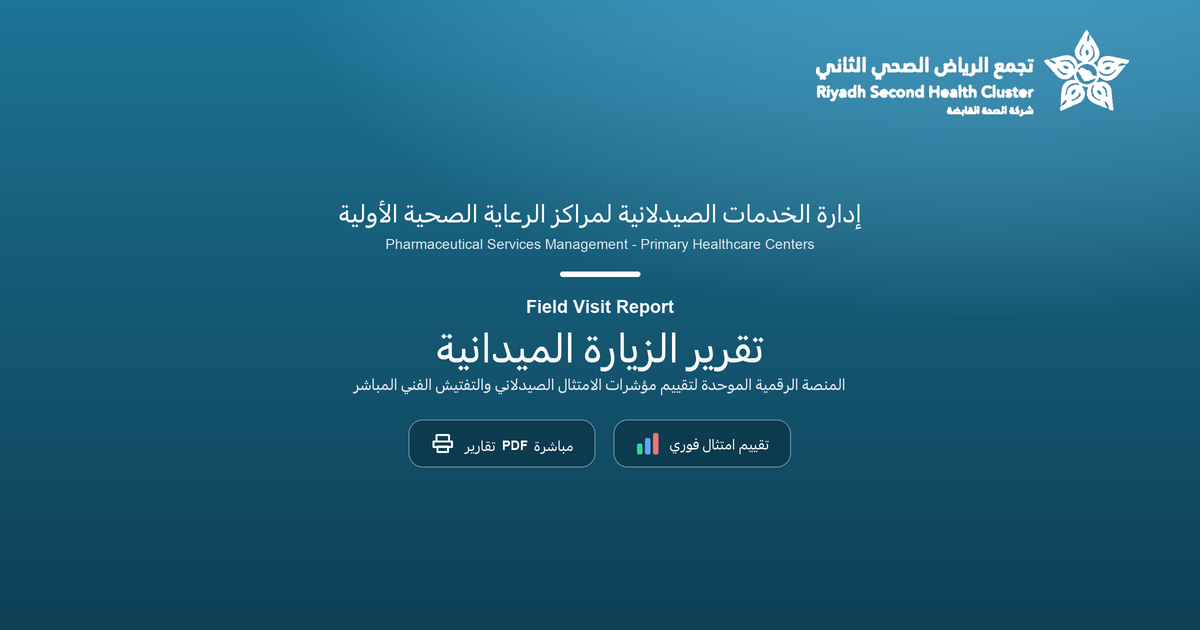
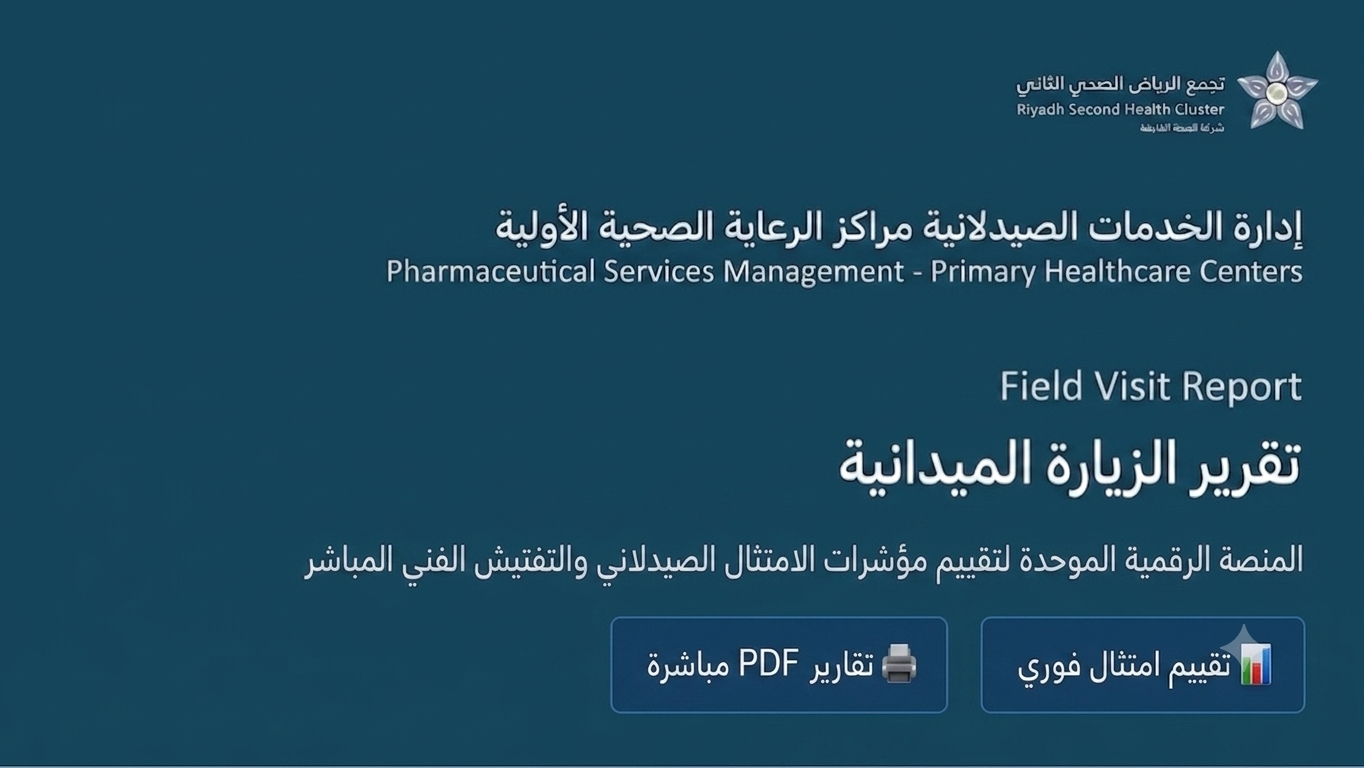
مطابقة صورة المعاينة لأبعاد header الأصلية لتعبئة الإطار بالكامل.

diff --git a/index.html b/index.html
@@ -14,8 +14,8 @@
     <meta property="og:image" content="https://raw.githubusercontent.com/Di-O2/pharmacy-audit/main/preview.png">
     <meta property="og:image:secure_url" content="https://raw.githubusercontent.com/Di-O2/pharmacy-audit/main/preview.png">
     <meta property="og:image:type" content="image/png">
-    <meta property="og:image:width" content="1200">
-    <meta property="og:image:height" content="630">
+    <meta property="og:image:width" content="1364">
+    <meta property="og:image:height" content="768">
     <meta property="og:image:alt" content="ترويسة تقرير الزيارة الميدانية">
 
     <meta name="twitter:card" content="summary_large_image">
